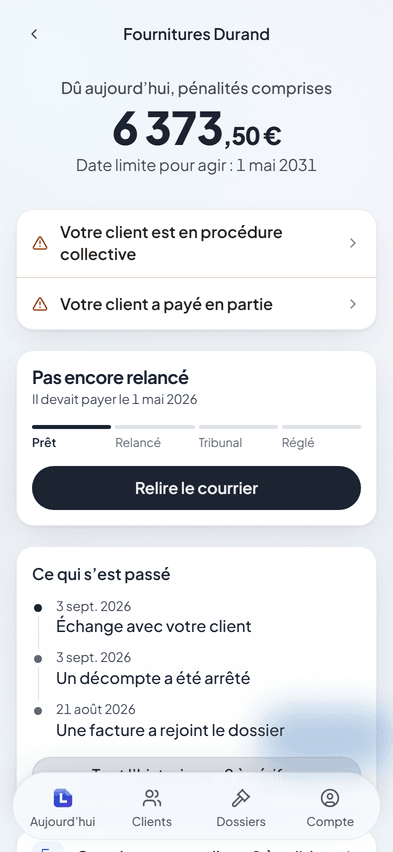
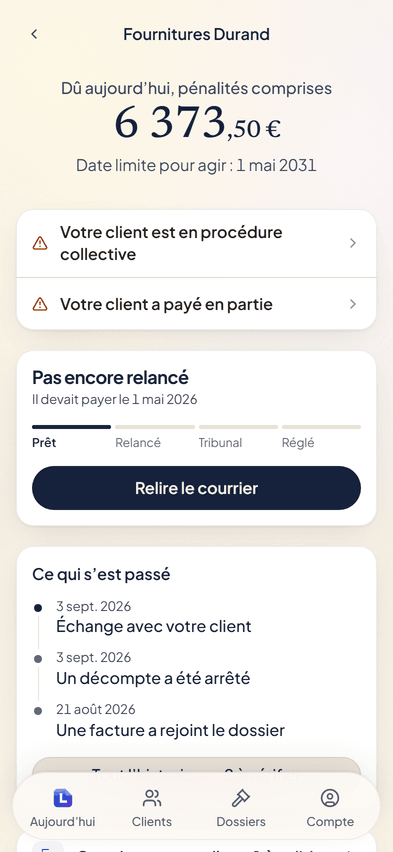
refonte(app): le papier chaud et l'encre bleue du site, sans toucher à l'UX
Le thème clair passe de la teinte 258 (bleu-gris) au crème du site : fond,
carte, creux, filet et surfaces de verre. L'encre passe au bleu d'encre de la
marque, et le bouton principal avec elle. Chaque clarté est restée la même :
recalculés, les rapports de contraste sont identiques au centième. Le lavis du
fond se réchauffe (crème, lavande, abricot) et reste plus clair que la page ;
le verre, le grain et le flou restent, c'est le côté moderne.

Le grand chiffre de chaque écran passe en Newsreader, la serif du site, et
nulle part ailleurs (choix du fondateur : « montants seulement »).

Les captures de la page publique sont refaites : sans la lueur du compagnon,
qui restait seule une fois le bouton masqué, et la page où le client paie
sans la barre d'onglets, qu'un débiteur ne voit jamais. L'écran de lancement
passe au crème. Le plan du site et le flux RSS sont inscrits parmi les routes
atteintes autrement.

Changed region(s): [[0.6412, 0.8239, 1.0, 0.9155], [0.2748, 0.1221, 0.7328, 0.1831]]

diff --git a/src/styles/app.css b/src/styles/app.css
@@ -1200,7 +1200,7 @@ select:not(:disabled),
 /* ── LE VERRE ─────────────────────────────────────────────────────────────── */
 
 .light .verre {
-	background-color: oklch(0.985 0.004 258 / 0.78);
+	background-color: oklch(0.985 0.006 85 / 0.78);
 	box-shadow:
 		inset 0 0 0 1px oklch(0.3 0.02 264 / 0.07),
 		0 1px 2px oklch(0.3 0.02 264 / 0.06),
@@ -1232,7 +1232,7 @@ select:not(:disabled),
  * d'une carte — c'est ce qui la fait FLOTTER — mais au dosage d'un thème clair,
  * et dirigée vers le HAUT, puisque la barre est posée en bas de l'écran. */
 .light .verre-dense {
-	background-color: oklch(0.985 0.004 258 / 0.82);
+	background-color: oklch(0.985 0.006 85 / 0.82);
 	box-shadow:
 		inset 0 0 0 1px oklch(0.3 0.02 264 / 0.08),
 		0 -1px 2px oklch(0.3 0.02 264 / 0.05),
@@ -1241,11 +1241,11 @@ select:not(:disabled),
 
 .light .verre-actif:hover,
 .light .verre-bouton:hover {
-	background-color: oklch(0.94 0.008 258 / 0.88);
+	background-color: oklch(0.94 0.016 82 / 0.88);
 }
 
 .light .verre-carte-actif:hover {
-	background-color: oklch(0.945 0.008 258 / 0.9);
+	background-color: oklch(0.945 0.016 82 / 0.9);
 }
 
 /* L'arête se renforce en même temps que le fond s'assombrit — la même lecture
@@ -1273,15 +1273,15 @@ select:not(:disabled),
  * volontairement bien plus sombre que `--cladd-outline` (1,28:1), qui n'est
  * qu'un séparateur et n'est soumis à aucun seuil. Deux métiers, deux valeurs. */
 .light .cladd-input .bg-cladd-surface-cut {
-	background-color: oklch(0.945 0.008 258 / 0.82);
+	background-color: oklch(0.945 0.016 82 / 0.82);
 	box-shadow:
-		inset 0 0 0 1px oklch(0.62 0.016 258),
+		inset 0 0 0 1px oklch(0.62 0.022 80),
 		inset 0 1px 2px 0 oklch(0.3 0.02 264 / 0.06);
 }
 
 .light .cladd-input:hover .bg-cladd-surface-cut,
 .light .cladd-input:focus-within .bg-cladd-surface-cut {
-	background-color: oklch(0.925 0.01 258 / 0.88);
+	background-color: oklch(0.925 0.018 80 / 0.88);
 }
 
 /* Le creux, en clair. L'inversion d'éclairage se retourne AUSSI : en sombre, le
@@ -1289,7 +1289,7 @@ select:not(:disabled),
  * une ombre EN HAUT, puisque la lumière vient toujours d'en haut et qu'un creux
  * porte l'ombre de son propre bord. */
 .light .cladd-surface-cut:not(.cladd-input) > .bg-cladd-surface-cut {
-	background-color: oklch(0.93 0.009 258 / 0.7);
+	background-color: oklch(0.93 0.016 82 / 0.7);
 	box-shadow:
 		inset 0 2px 3px -1px oklch(0.3 0.02 264 / 0.09),
 		inset 0 0 0 1px oklch(0.3 0.02 264 / 0.06);
@@ -1301,11 +1301,11 @@ select:not(:disabled),
  * seule règle déjà thématique (`background: var(--cladd-fg)`), donc en clair
  * elle devient une pilule presque noire à texte clair — 13,9:1, exactement le
  * bouton noir d'une référence en thème clair. On croit donc n'avoir rien à
- * faire. Mais son SURVOL était figé à `oklch(0.9 0.004 258)`, un gris très
+ * faire. Mais son SURVOL était figé à `oklch(0.9 0.006 85)`, un gris très
  * clair : sur une pilule devenue noire, il la faisait pratiquement disparaître.
  * Et sa lueur était du blanc, invisible sur du papier. */
 .light .pilule-principale:hover {
-	background-color: oklch(0.36 0.022 264);
+	background-color: oklch(0.36 0.05 266);
 	box-shadow: 0 4px 20px -6px oklch(0.3 0.02 264 / 0.32);
 }
 
@@ -1313,8 +1313,8 @@ select:not(:disabled),
  * règle sombre : on voit tout de suite que ce n'est pas encore cliquable. */
 .light .pilule-principale:disabled,
 .light .pilule-principale[aria-disabled='true'] {
-	background-color: oklch(0.885 0.008 258);
-	color: oklch(0.475 0.014 258);
+	background-color: oklch(0.885 0.016 82);
+	color: oklch(0.475 0.028 266);
 }
 
 /* ⚠ ELLE ÉTAIT DU BLANC PUR À 14 % D'OPACITÉ, donc STRICTEMENT INVISIBLE sur
@@ -1329,14 +1329,14 @@ select:not(:disabled),
  * pilule secondaire SANS libellé n'existe pas dans ce produit ; le jour où elle
  * existerait, il lui faudrait un trait à 3:1. */
 .light .pilule-secondaire {
-	background-color: oklch(0.925 0.008 258);
+	background-color: oklch(0.925 0.016 82);
 	box-shadow:
 		inset 0 0 0 1px oklch(0.3 0.02 264 / 0.1),
 		0 1px 2px oklch(0.3 0.02 264 / 0.05);
 }
 
 .light .pilule-secondaire:hover {
-	background-color: oklch(0.885 0.01 258);
+	background-color: oklch(0.885 0.018 80);
 }
 
 /* ── LE FAISCEAU ──────────────────────────────────────────────────────────── */
@@ -1411,17 +1411,17 @@ select:not(:disabled),
 	background-image:
 		radial-gradient(
 			120% 70% at 12% 8%,
-			oklch(0.985 0.03 258 / 0.85) 0%,
-			oklch(0.985 0.022 258 / 0.35) 45%,
+			oklch(0.985 0.03 85 / 0.85) 0%,
+			oklch(0.985 0.024 85 / 0.35) 45%,
 			transparent 72%
 		),
 		radial-gradient(
 			110% 65% at 88% 18%,
-			oklch(0.985 0.026 288 / 0.75) 0%,
-			oklch(0.985 0.018 288 / 0.3) 48%,
+			oklch(0.985 0.026 300 / 0.75) 0%,
+			oklch(0.985 0.018 300 / 0.3) 48%,
 			transparent 75%
 		),
-		radial-gradient(130% 80% at 50% 105%, oklch(0.99 0.022 236 / 0.8) 0%, transparent 70%);
+		radial-gradient(130% 80% at 50% 105%, oklch(0.99 0.03 62 / 0.8) 0%, transparent 70%);
 }
 
 /* Le grain reste, à peine. `overlay` sur une base très claire ne peut

diff --git a/src/styles/tokens.css b/src/styles/tokens.css
@@ -804,7 +804,16 @@
  * de (0,2,0). Pour un élément `.light` IMBRIQUÉ — la tablette de la page
  * commerciale, `marketing/apercu.tsx`, rendue dans un document qui peut porter
  * `.dark` — seul `.light` matchait ici, soit (0,1,0) : le kit gagnait, et cette
- * tablette rendait la palette par défaut de Cladd, pas celle de Letikette. */
+ * tablette rendait la palette par défaut de Cladd, pas celle de Letikette.
+ *
+ * ⚠ LE PAPIER CHAUD DU SITE, DEPUIS LE 06/10/2026. Le fondateur : « que l'on
+ * retrouve notre DA dans l'app tout en gardant le côté moderne ». Le fond, la
+ * carte, le creux et le filet passent de la teinte 258 (bleu-gris) au crème du
+ * site (80-85) ; l'encre passe au bleu d'encre de la marque (266, chroma
+ * relevée). CHAQUE CLARTÉ EST RESTÉE LA MÊME, et c'est ce qui rend le changement
+ * sûr : recalculé, tous les rapports de contraste écrits plus bas sont
+ * identiques au centième (13,97 → 14,01 pour l'encre sur la page, le reste
+ * inchangé). Le verre, le grain et le lavis restent : c'est le côté moderne. */
 :root.light,
 .light,
 .dark .light,
@@ -821,7 +830,7 @@
 	 * assombrir, aucun contraste ne serait garanti et le défaut n'apparaîtrait
 	 * qu'à certaines phases — invisible sur une capture. Voir `.light
 	 * .fond-releve`, qui ne pose que des tons plus clairs que celui-ci. */
-	--cladd-bg: oklch(0.958 0.007 258);
+	--cladd-bg: oklch(0.958 0.017 82);
 
 	/* LA CARTE. Presque blanche, et pas blanche pure, pour deux raisons
 	 * mesurées : le blanc pur est le plafond, donc plus rien ne peut monter
@@ -830,14 +839,14 @@
 	 * distingue pas à l'œil. Elle ne tient que 1,08:1 au-dessus de la page —
 	 * sur fond clair il en faudrait quinze points — d'où le filet et l'ombre
 	 * qu'elle porte en plus, dans `app.css`. */
-	--cladd-surface: oklch(0.995 0.001 258);
+	--cladd-surface: oklch(0.995 0.004 85);
 	--cladd-surface-mix-color: var(--cladd-surface-black);
 	--cladd-surface-mix-amount: 3%;
 
 	/* Le creux garde la teinte du fond : un champ est une découpe DANS la page,
 	 * pas une pièce rapportée grise. 1,16:1 sous la surface, et il reste
 	 * au-dessus de la page pour ne pas percer un trou. */
-	--cladd-surface-cut: oklch(0.945 0.008 258);
+	--cladd-surface-cut: oklch(0.945 0.018 82);
 
 	/* LE FILET QUI SÉPARE — et il n'a pas de seuil à tenir. WCAG 1.4.11 vise
 	 * « l'information nécessaire à identifier les composants d'interface », pas
@@ -850,8 +859,8 @@
 	 * Chroma 0,010 et non 0 : un gris neutre posé sur un fond bleuté tire au
 	 * jaune par contraste simultané — ce fichier a déjà pris la leçon à
 	 * l'envers, du temps où le fond était chaud. */
-	--cladd-bg-outline: oklch(0.912 0.01 258);
-	--cladd-outline: oklch(0.912 0.01 258);
+	--cladd-bg-outline: oklch(0.912 0.018 80);
+	--cladd-outline: oklch(0.912 0.018 80);
 
 	/* LE TEXTE — encre bleu-noir plutôt que gris, et QUATRE CRANS ÉCARTÉS.
 	 *
@@ -879,10 +888,10 @@
 	 * creux — et le creux est le plus sombre des trois. À 0,545, la valeur qui
 	 * tient tout juste 4,5:1 sur la page, il tombait à 4,23:1 dans un champ.
 	 * D'où 0,515, qui tient 4,75:1 même là. */
-	--cladd-fg: oklch(0.255 0.028 264);
-	--cladd-fg-soft: oklch(0.395 0.024 264);
-	--cladd-fg-softer: oklch(0.475 0.02 264);
-	--cladd-fg-softest: oklch(0.515 0.016 264);
+	--cladd-fg: oklch(0.255 0.05 266);
+	--cladd-fg-soft: oklch(0.395 0.036 266);
+	--cladd-fg-softer: oklch(0.475 0.028 266);
+	--cladd-fg-softest: oklch(0.515 0.022 266);
 }
 
 /* Le texte porté PAR l'accent, en mode clair.

diff --git a/src/ui/chiffre.tsx b/src/ui/chiffre.tsx
@@ -32,6 +32,13 @@ import { partsEurosCentimes } from './format';
  * dessous — et un montant dû n'est pas un verdict : c'est une somme. Le verdict
  * se pose à côté, dans un mot qu'on peut lire, jamais dans la couleur du
  * chiffre lui-même.
+ *
+ * ⚠ EN NEWSREADER, LA SERIF DU SITE, ET NULLE PART AILLEURS DANS L'APP
+ * (06/10/2026, choix du fondateur : « montants seulement »). C'est le marqueur
+ * le plus fort de la DA publique, posé sur le seul chiffre de chaque écran ;
+ * tout le reste de l'interface reste en sans-serif. Graisse moyenne comme les
+ * titres du site, chiffres alignés et de largeur fixe (`lining-nums`,
+ * `tabular-nums`) : la serif a des chiffres elzéviriens qui danseraient.
  */
 export function ChiffreHero({
 	centimes,
@@ -68,12 +75,12 @@ export function ChiffreHero({
 			  le seul endroit du produit où un chiffre qui change de largeur
 			  déplacerait toute la mise en page sous lui.
 			*/}
-			<p className="flex items-baseline justify-center tabular-nums">
-				<span className="text-letikette-hero leading-none font-extrabold tracking-tight">
+			<p className="flex items-baseline justify-center font-serif lining-nums tabular-nums">
+				<span className="text-letikette-hero leading-none font-medium tracking-titre-section">
 					{signe}
 					{entiers}
 				</span>
-				<span className="text-letikette-hero-centimes leading-none font-extrabold tracking-tight">
+				<span className="text-letikette-hero-centimes leading-none font-medium tracking-titre-section">
 					,{cents}&nbsp;€
 				</span>
 			</p>
@@ -110,7 +117,7 @@ export function NombreHero({
 	return (
 		<div className={cn('flex flex-col items-center gap-1 text-center', className)}>
 			<p className="text-cladd-xs font-medium text-cladd-fg-soft">{surTitre}</p>
-			<p className="text-letikette-hero leading-none font-extrabold tracking-tight tabular-nums">
+			<p className="font-serif text-letikette-hero leading-none font-medium tracking-titre-section lining-nums tabular-nums">
 				{NOMBRE.format(nombre)}
 			</p>
 			{legende ? <div className="text-cladd-xs text-cladd-fg-soft">{legende}</div> : null}

diff --git a/scripts/capturer-ecrans.ts b/scripts/capturer-ecrans.ts
@@ -38,6 +38,11 @@ interface Capture {
 	readonly variante?: string;
 	/** Défilement vertical avant la prise, en pixels CSS. */
 	readonly defilement?: number;
+	/**
+	 * Sans la barre du bas : la salle d'exposition la monte sur tous ses écrans,
+	 * mais la page où le client paie ne la porte pas — un débiteur n'a pas d'onglets.
+	 */
+	readonly sansBarre?: boolean;
 }
 
 const CAPTURES: readonly Capture[] = [
@@ -46,7 +51,7 @@ const CAPTURES: readonly Capture[] = [
 	{ nom: 'file', ecran: 'aujourd’hui', defilement: 330 },
 	{ nom: 'dossier', ecran: 'créance' },
 	{ nom: 'decompte', ecran: 'arrêt du décompte' },
-	{ nom: 'paiement', ecran: 'le client paie' },
+	{ nom: 'paiement', ecran: 'le client paie', sansBarre: true },
 	{ nom: 'depots', ecran: 'dépôt' }
 ];
 
@@ -75,8 +80,23 @@ async function main(): Promise<void> {
 			for (const bouton of document.querySelectorAll('button')) {
 				if (bouton.textContent?.trim() === 'Demander') bouton.style.visibility = 'hidden';
 			}
+			// Sa lueur est une sœur du bouton, pas un enfant : masquer le bouton seul
+			// laissait une tache bleue sans objet en bas de chaque capture.
+			for (const halo of document.querySelectorAll('.halo-compagnon')) {
+				if (halo instanceof HTMLElement) halo.style.visibility = 'hidden';
+			}
 		});
 		await page.waitForTimeout(900);
+		if (capture.sansBarre === true) {
+			await page.evaluate(() => {
+				// La barre est le seul bloc FIXE qui porte l'onglet « Dossiers ».
+				for (const bloc of document.querySelectorAll('body *')) {
+					if (!(bloc instanceof HTMLElement)) continue;
+					if (getComputedStyle(bloc).position !== 'fixed') continue;
+					if (bloc.textContent?.includes('Dossiers')) bloc.style.display = 'none';
+				}
+			});
+		}
 		if (capture.defilement !== undefined) {
 			await page.mouse.move(LARGEUR / 2, HAUTEUR / 2);
 			await page.mouse.wheel(0, capture.defilement);

diff --git a/src/ui/__tests__/aucun-ecran-orphelin.test.ts b/src/ui/__tests__/aucun-ecran-orphelin.test.ts
@@ -48,6 +48,10 @@ const ATTEINTS_AUTREMENT: Readonly<Record<string, string>> = {
 	'/': 'La page publique. On y arrive par le domaine.',
 	'/showroom':
 		'La salle d’exposition, en développement seulement. Aucun lien depuis le produit, et c’est voulu.',
+	'/sitemap.xml':
+		'Le plan du site, pour les moteurs de recherche. Ils le trouvent par robots.txt, pas par un lien.',
+	'/blog/rss.xml':
+		'Le flux du blog. Les lecteurs de flux le trouvent par la balise alternate des pages du blog.',
 	/**
 	 * ⚠ AUCUN ÉCRAN N'Y MÈNE, ET AUCUN N'Y MÈNERA JAMAIS.
 	 *
